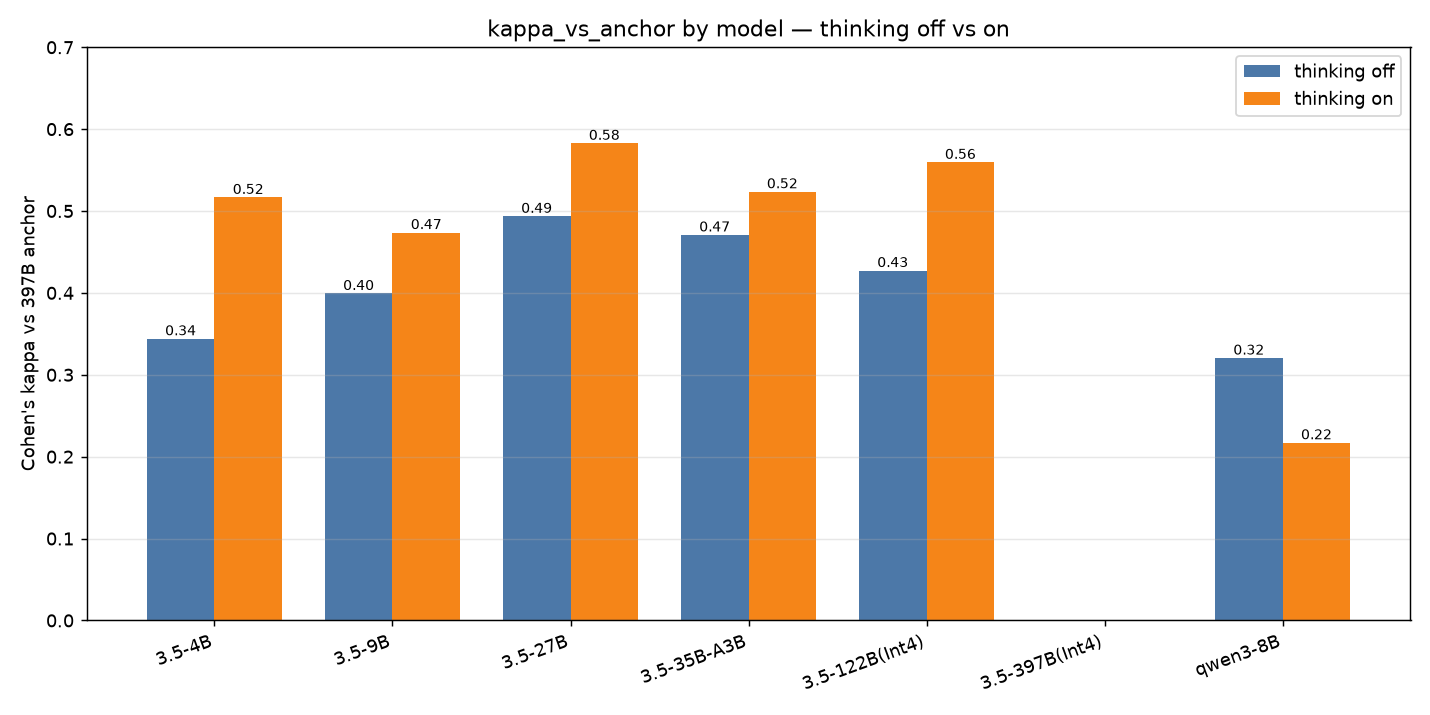
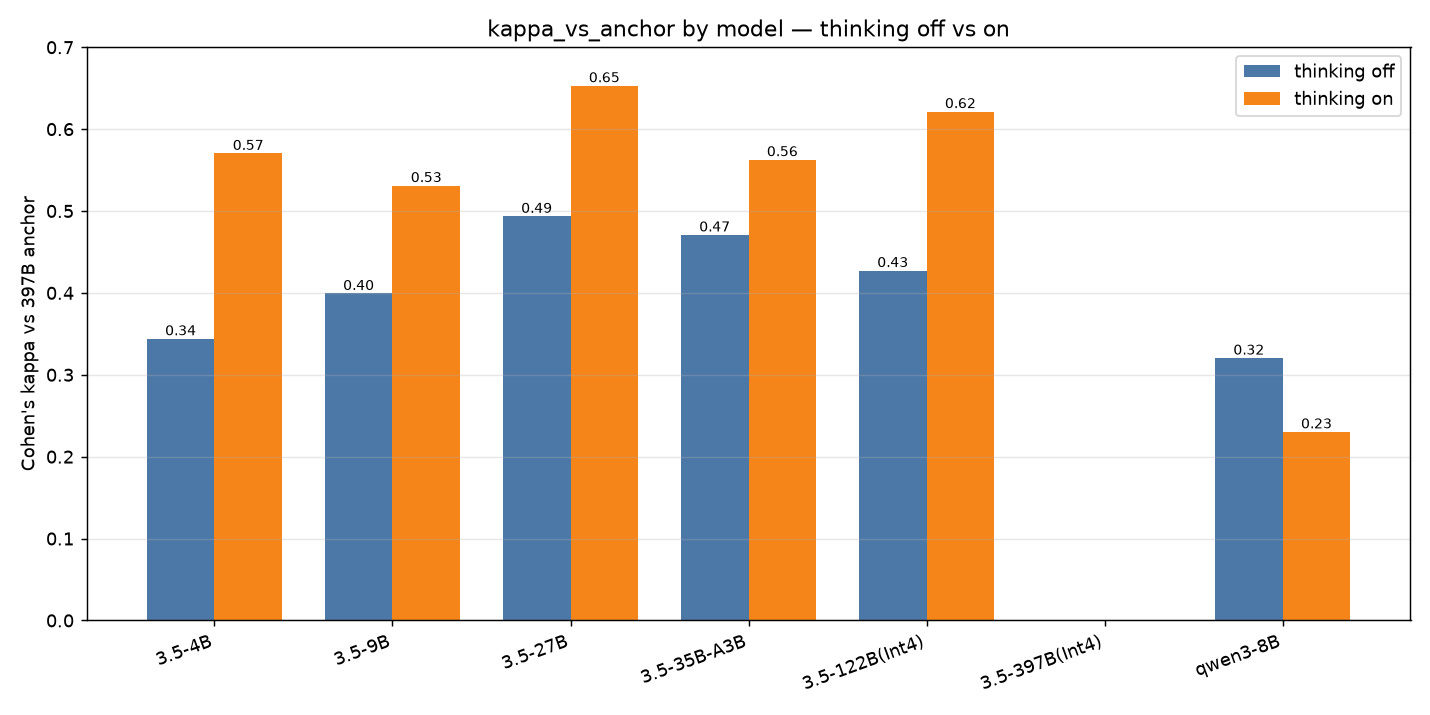
regen plots+summary: accuracy(parse-ok) + accuracy(parse-fail=wrong), rating=0 fix

diff --git a/results/2026-07-08-judge-sweep/derived/summary.md b/results/2026-07-08-judge-sweep/derived/summary.md
@@ -1,22 +1,22 @@
 # Judge sweep summary
 
-_accuracy = judge picks the true human (ties excluded); kappa_vs_anchor = Cohen's kappa on picked_human vs the 397B anchor, same thinking-mode, shared pairs._
+_acc_parse_ok = judge picks the true human among valid non-tie calls (ties & parse failures excluded); acc_penalized = same but parse failures (rating=0/none) counted WRONG. kappa_vs_anchor = Cohen's kappa on picked_human vs the 397B anchor, same thinking-mode, shared pairs._
 
 _Caveat: accuracies are vs ONE stochastic generator draw (1 sample/row, T=0.6). Judge-vs-judge gaps <5pp are within generator sampling noise._
 
-| cell           | mode   |   n_calls |   n_scored |   parse_error |   tie_rate |   budget_hit |   accuracy |   pos_bias |   rating_mean |   kappa_vs_anchor |
-|:---------------|:-------|----------:|-----------:|--------------:|-----------:|-------------:|-----------:|-----------:|--------------:|------------------:|
-| qwen3-8b       | off    |       880 |        692 |    0          | 0.213636   |   0          |   0.550578 |  0.075598  |       4.01705 |          0.320423 |
-| qwen35-122b    | off    |       880 |        827 |    0          | 0.0602273  |   0          |   0.703748 |  0.172483  |       4.5375  |          0.427306 |
-| qwen35-27b     | off    |       880 |        830 |    0          | 0.0568182  |   0          |   0.726506 |  0.0880277 |       3.96023 |          0.493514 |
-| qwen35-35b-a3b | off    |       880 |        828 |    0          | 0.0590909  |   0          |   0.699275 |  0.238221  |       3.75341 |          0.470794 |
-| qwen35-397b    | off    |       880 |        836 |    0          | 0.05       |   0          |   0.708134 |  0.0165631 |       4.11477 |        nan        |
-| qwen35-4b      | off    |       880 |        820 |    0          | 0.0681818  |   0          |   0.613415 |  0.117639  |       3.82727 |          0.344001 |
-| qwen35-9b      | off    |       880 |        808 |    0          | 0.0818182  |   0          |   0.637376 |  0.0873722 |       4.00455 |          0.399286 |
-| qwen3-8b       | on     |       880 |        807 |    0          | 0.0829545  |   0          |   0.524164 |  0.227508  |       3.6625  |          0.217033 |
-| qwen35-122b    | on     |       880 |        875 |    0.0795455  | 0.00568182 |   0.00113636 |   0.76     |  0.197035  |       3.56364 |          0.559444 |
-| qwen35-27b     | on     |       880 |        875 |    0.0193182  | 0.00568182 |   0          |   0.765714 |  0.213489  |       3.65568 |          0.582713 |
-| qwen35-35b-a3b | on     |       880 |        863 |    0.00454545 | 0.0193182  |   0          |   0.732329 |  0.0990901 |       3.90114 |          0.523531 |
-| qwen35-397b    | on     |       880 |        880 |    0.111364   | 0          |   0          |   0.754545 |  0.217722  |       3.48182 |        nan        |
-| qwen35-4b      | on     |       880 |        866 |    0.0125     | 0.0159091  |   0          |   0.744804 |  0.180018  |       3.70682 |          0.516621 |
-| qwen35-9b      | on     |       880 |        868 |    0.05       | 0.0136364  |   0          |   0.733871 |  0.107251  |       3.81705 |          0.47373  |
+| cell           | mode   |   n_calls |   n_scored |   parse_error |   tie_rate |   budget_hit |   acc_parse_ok |   acc_penalized |   pos_bias |   rating_mean |   kappa_vs_anchor |
+|:---------------|:-------|----------:|-----------:|--------------:|-----------:|-------------:|---------------:|----------------:|-----------:|--------------:|------------------:|
+| qwen3-8b       | off    |       880 |        692 |    0          | 0.213636   |   0          |       0.550578 |        0.550578 |  0.075598  |       4.01705 |          0.320423 |
+| qwen35-122b    | off    |       880 |        827 |    0          | 0.0602273  |   0          |       0.703748 |        0.703748 |  0.172483  |       4.5375  |          0.427306 |
+| qwen35-27b     | off    |       880 |        830 |    0          | 0.0568182  |   0          |       0.726506 |        0.726506 |  0.0880277 |       3.96023 |          0.493514 |
+| qwen35-35b-a3b | off    |       880 |        828 |    0          | 0.0590909  |   0          |       0.699275 |        0.699275 |  0.238221  |       3.75341 |          0.470794 |
+| qwen35-397b    | off    |       880 |        836 |    0          | 0.05       |   0          |       0.708134 |        0.708134 |  0.0165631 |       4.11477 |        nan        |
+| qwen35-4b      | off    |       880 |        820 |    0          | 0.0681818  |   0          |       0.613415 |        0.613415 |  0.117639  |       3.82727 |          0.344001 |
+| qwen35-9b      | off    |       880 |        808 |    0          | 0.0818182  |   0          |       0.637376 |        0.637376 |  0.0873722 |       4.00455 |          0.399286 |
+| qwen3-8b       | on     |       880 |        807 |    0          | 0.0829545  |   0          |       0.524164 |        0.524164 |  0.227508  |       3.6625  |          0.230334 |
+| qwen35-122b    | on     |       880 |        805 |    0.0795455  | 0.00568182 |   0.00113636 |       0.768944 |        0.707429 |  0.143008  |       3.56364 |          0.621454 |
+| qwen35-27b     | on     |       880 |        858 |    0.0193182  | 0.00568182 |   0          |       0.772727 |        0.757714 |  0.196468  |       3.65568 |          0.653023 |
+| qwen35-35b-a3b | on     |       880 |        859 |    0.00454545 | 0.0193182  |   0          |       0.734575 |        0.73117  |  0.0939433 |       3.90114 |          0.562714 |
+| qwen35-397b    | on     |       880 |        782 |    0.111364   | 0          |   0          |       0.772379 |        0.686364 |  0.136899  |       3.48182 |        nan        |
+| qwen35-4b      | on     |       880 |        855 |    0.0125     | 0.0159091  |   0          |       0.747368 |        0.737875 |  0.170267  |       3.70682 |          0.570383 |
+| qwen35-9b      | on     |       880 |        824 |    0.05       | 0.0136364  |   0          |       0.75     |        0.711982 |  0.0570957 |       3.81705 |          0.531095 |
